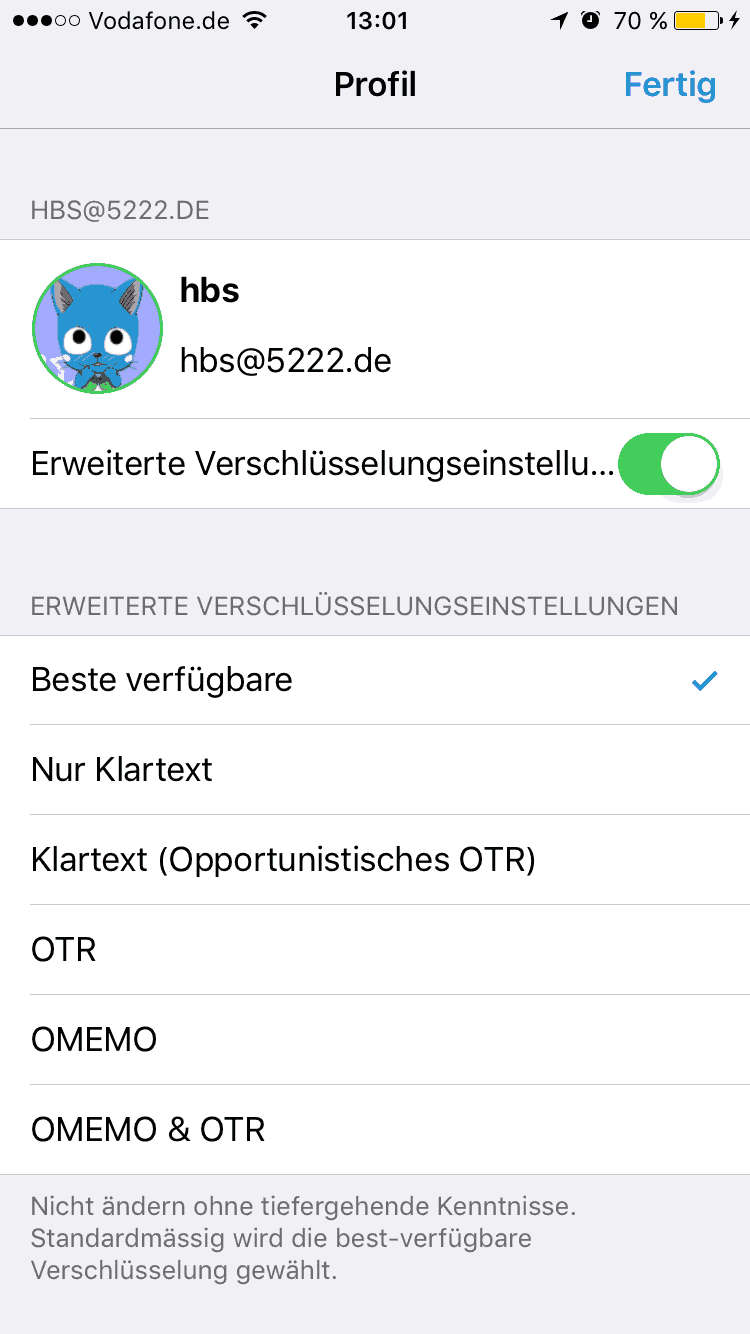
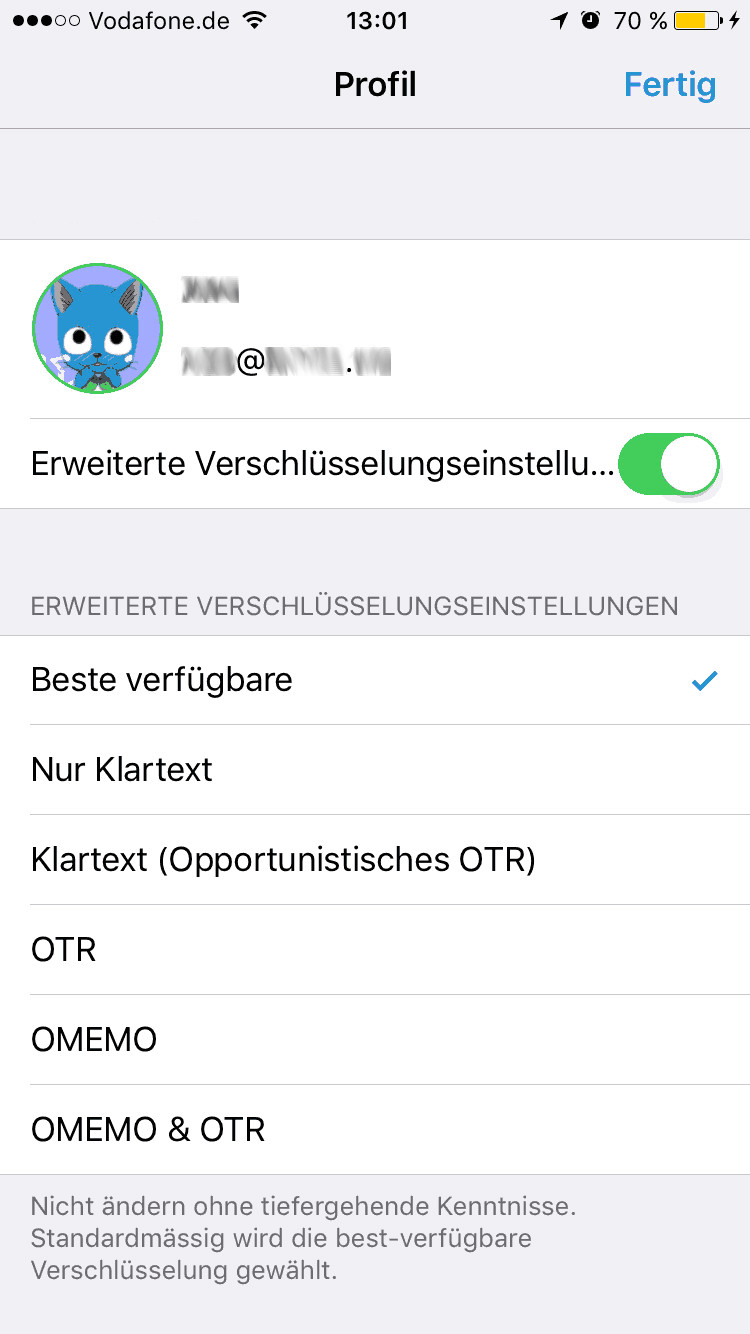
* corrected wrong hyperlink in chatsecure tutorial * updated images for chatsecure tutorials [BUILD]

Changed region(s): [[0.0307, 0.1537, 0.5213, 0.3073]]

diff --git a/public/post/xmpp-over-tls/index.html b/public/post/xmpp-over-tls/index.html
@@ -336,8 +336,7 @@ Im Folgenden habe ich die simpelste Möglichkeit eins vHosts angenommen. Dabei i
 &lt;/stream:stream&gt;
 </code></pre>
 
-<p><span style="color:red"><strong>Hinweis</strong>:</span> Für das Testen via curl sollte eine andere Maschine gewählt werden.
-Ausgeführt auf der gleichen Maschine durchlaufen die Pakete nicht die PREROUTING bzw. POSTROUTING Kette, daher wird die Verbindung abgelehnt.</p>
+<p><span style="color:red"><strong>Hinweis</strong>:</span> Für das Testen via curl sollte eine andere Maschine gewählt werden. Ausgeführt auf der gleichen Maschine durchlaufen die Pakete nicht die PREROUTING bzw. POSTROUTING Kette, daher wird die Verbindung abgelehnt.</p>
 
 </div>
 

diff --git a/public/page/tutorial/chatsecure/index.html b/public/page/tutorial/chatsecure/index.html
@@ -141,7 +141,7 @@
       <div class="content">
   
 
-<p><strong>Hinweis</strong>: <em>Ein Dank geht an <a href="5222.de" target="_blank">5222.de</a> die netterweise die Screenshots zur Verfügung gestellt haben. Da ich selbst kein iPhone besitzte wäre mir ein Tutorial sonst nicht möglich gewesen.</em></p>
+<p><strong>Hinweis</strong>: <em>Ein Dank geht an <a href="//5222.de" target="_blank">5222.de</a> die netterweise die Screenshots zur Verfügung gestellt haben. Da ich selbst kein iPhone besitzte wäre mir ein Tutorial sonst nicht möglich gewesen.</em></p>
 
 <h2 id="1-account-registrierung">1. Account Registrierung</h2>
 

diff --git a/content/page/tutorial/chatsecure.md b/content/page/tutorial/chatsecure.md
@@ -8,7 +8,7 @@ tags = [ "Guide" ]
 categories = [ "XMPP", "Chatsecure" ]
 keywords = [ "MagicBroccoli XMPP", "XMPP", "Chatsecure", "Chatsecure Tutorial", "iPhone" ]
 +++
-**Hinweis**: _Ein Dank geht an [5222.de](5222.de) die netterweise die Screenshots zur Verfügung gestellt haben. Da ich selbst kein iPhone besitzte wäre mir ein Tutorial sonst nicht möglich gewesen._
+**Hinweis**: _Ein Dank geht an [5222.de](//5222.de) die netterweise die Screenshots zur Verfügung gestellt haben. Da ich selbst kein iPhone besitzte wäre mir ein Tutorial sonst nicht möglich gewesen._
 
 ## 1. Account Registrierung
 Zuerst muss sich ein Account erstellt werden. Dafür ist die Web Registrierung ein Anlaufpunkt.
@@ -29,7 +29,7 @@ Beim ersten Verbindungsaufbau erscheint eine Benachrichtung dem SSL Zertifikat z
 <br><img src="/images/tutorials/chatsecure/login_existing_account.png" width="25%"><img src="/images/tutorials/chatsecure/login_creds.png" width="25%"><img src="/images/tutorials/chatsecure/login_trustssl.png" width="25%"><img src="/images/tutorials/chatsecure/login_successfull.png" width="25%">
 
 ## 4. Settings
-Unter den Einstellungen von Chatsecure befinden sich einige Möglichkeiten, die sehr nützlich für den Chat Alltag sind. 
+Unter den Einstellungen von Chatsecure befinden sich einige Möglichkeiten, die sehr nützlich für den Chat Alltag sind.
 Neben den aktiven Konten gibt es dort die Möglichkeit, die verwendeten Zertifkate einzusehen und zu kontrollieren. Außerdem ist es möglich eine automatisch Löschung der Nachrichten zu aktivieren. Je nach Belieben ist es damit möglich beim Trennen der Verbindung oder verlassen des Gesprächs alle Nachricht im Verlauf zu löschen.<br>
 Das kleine gelbe Warndreieck symbolisiert, das ein Feature des Server verwendet wird diese aber Probleme hat. Sehr häufig handelt es sich hierbei um die Push Notifications.
 <br><img src="/images/tutorials/chatsecure/settings.png" width="33%"><img src="/images/tutorials/chatsecure/settings_konto.png" width="33%"><img src="/images/tutorials/chatsecure/settings_profile.png" width="33%">
